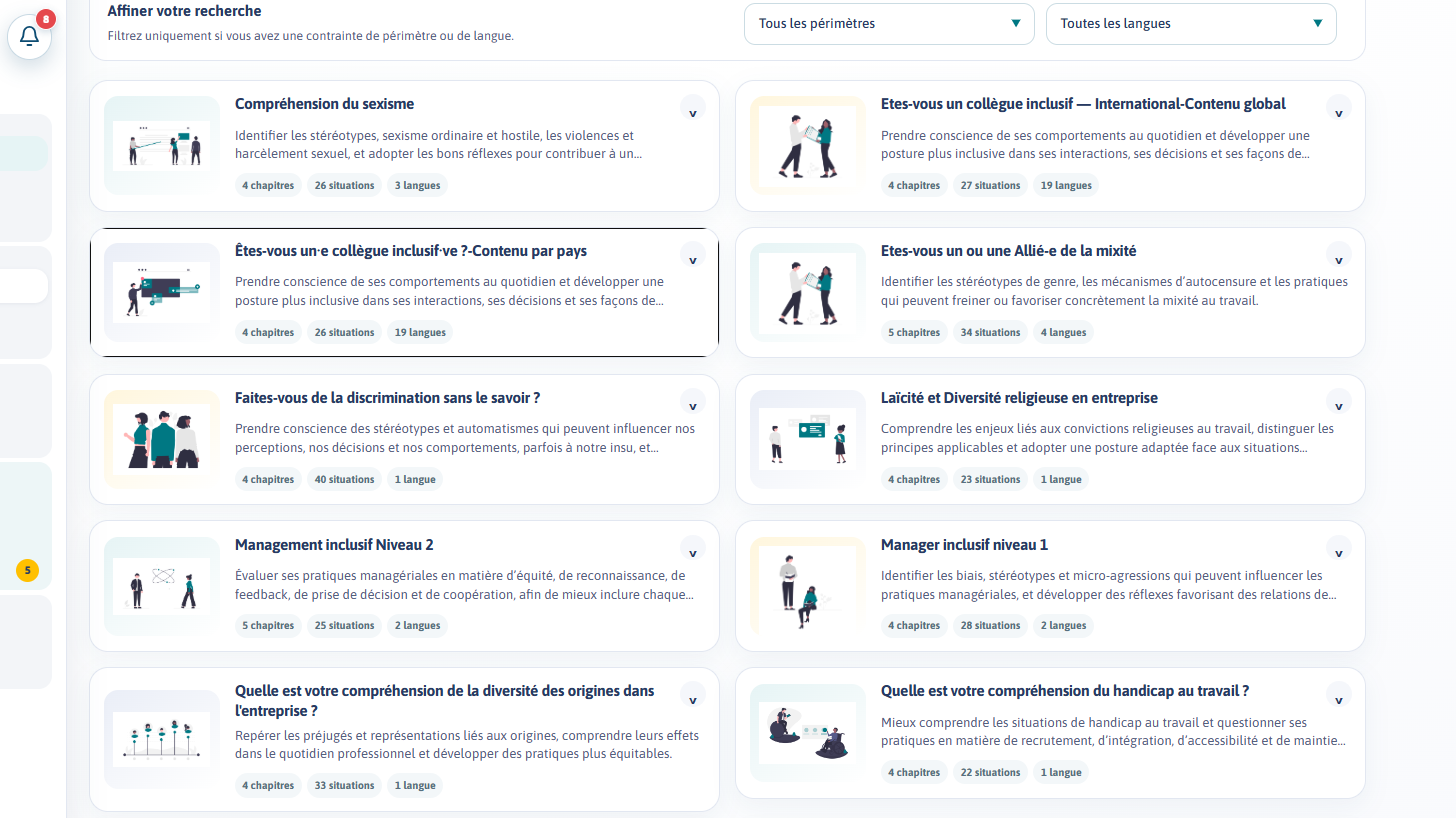
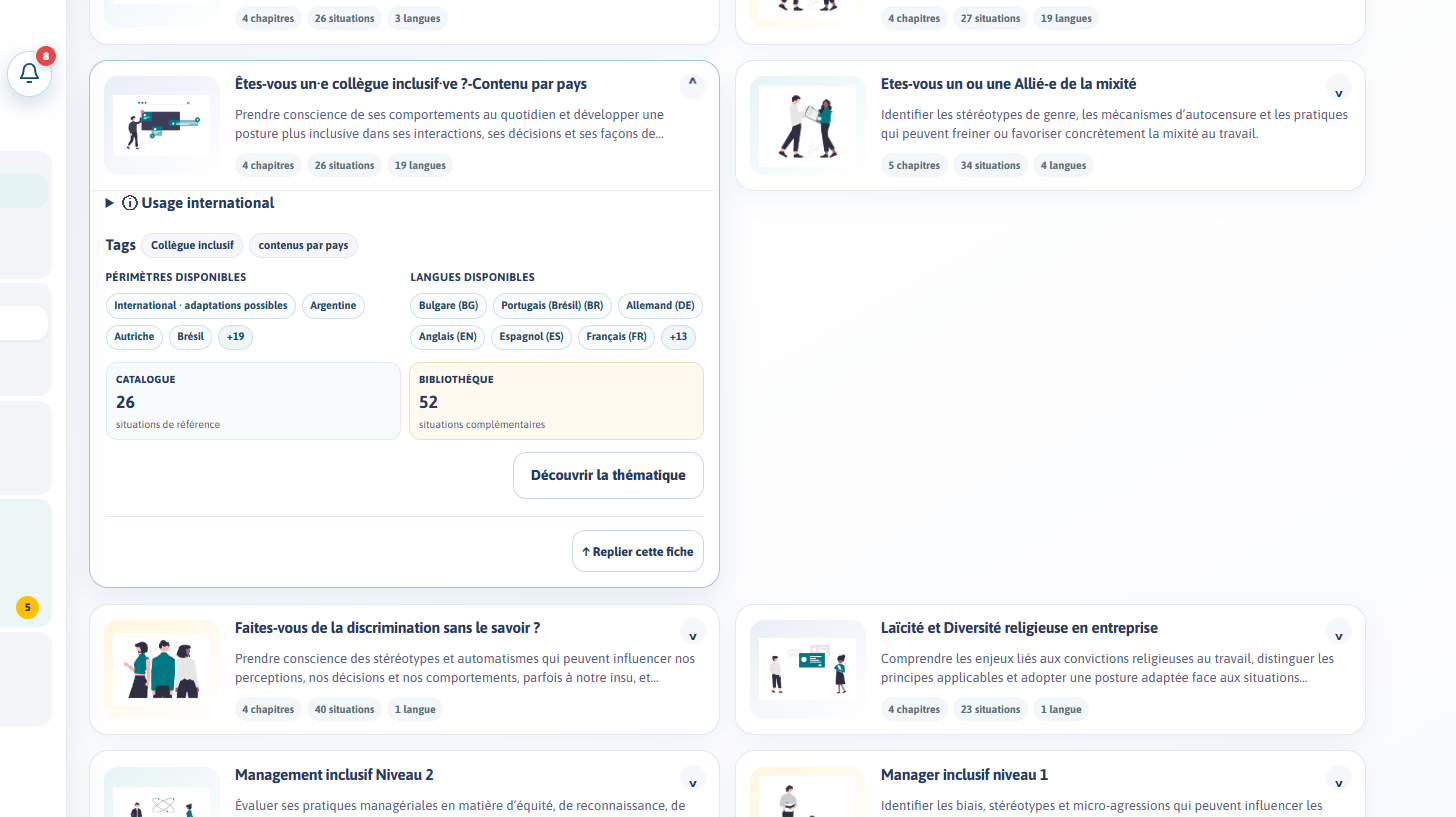
Tutoriel Choisir : carte du catalogue dépliée au plan 4

diff --git a/tutos/choisir/index.html b/tutos/choisir/index.html
@@ -21,7 +21,7 @@ window.TUTO={
     {img:'ecran-1.png',box:[8,4,50,7],text:'Première étape : choisir votre diagnostic dans le catalogue Me&YouToo.'},
     {img:'ecran-1.png',box:[6.2,51,87.7,9.5],text:'Le Studio vous accompagne de bout en bout : découvrir, composer, lancer, mesurer, piloter, recommencer.'},
     {img:'ecran-1.png',box:[6.2,65,87.7,20.5],text:'Cherchez une thématique, ou filtrez par pays ou par langue si votre campagne en a besoin.'},
-    {img:'ecran-2.png',box:[6.2,28,43.3,15.6],text:'Chaque carte présente une thématique : son nombre de chapitres, de situations et de langues. Dépliez pour voir plus de détails ou cliquez pour la découvrir complètement.'},
+    {img:'ecran-2.png',box:[6.2,7.3,43.3,64.6],text:'Chaque carte présente une thématique : son nombre de chapitres, de situations et de langues. Dépliez pour voir plus de détails ou cliquez pour la découvrir complètement.'},
     {img:'ecran-3.png',box:[7.8,37,82,28],text:'La fiche indique les pays et les langues disponibles pour cette thématique.'},
     {img:'ecran-4.png',box:[6.8,25.5,86.5,44],text:'Parcourez les chapitres. Certains sont au choix : ici, « Biais inconscients » ou « Stéréotypes ».'},
     {img:'ecran-4.png',box:[81.6,43,10.2,5.8],text:'« Voir le catalogue » vous montre les situations d’un chapitre avant de vous décider.'},
